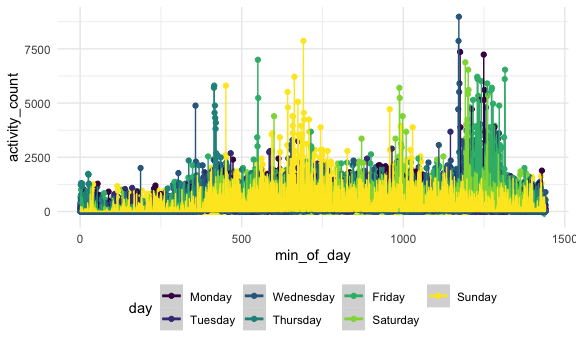
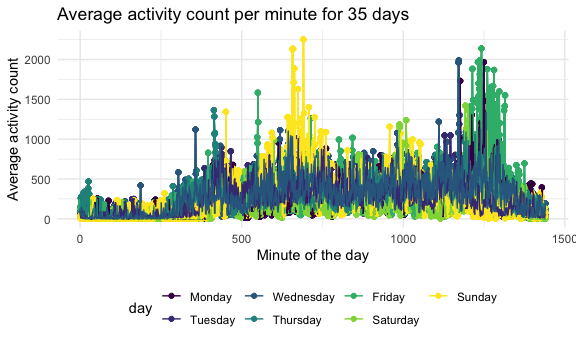
Fixed up graph from number 2 and added descriptions

diff --git a/p8105_hw3_mll2209.md b/p8105_hw3_mll2209.md
@@ -125,7 +125,8 @@ accel_df =
     day_type = as.factor(day_type),
     min_of_day = as.numeric(min_of_day)) %>%
   mutate(
-    day = factor(day, levels = c("Monday", "Tuesday", "Wednesday", "Thursday", "Friday", "Saturday", "Sunday")))
+    day = factor(day, levels = c("Monday", "Tuesday", "Wednesday", "Thursday", "Friday", "Saturday", "Sunday"))) %>%
+  arrange(day)
 ```
 
     ## Parsed with column specification:
@@ -136,11 +137,14 @@ accel_df =
 
     ## See spec(...) for full column specifications.
 
+In this dataset, there are 6 variables, consisting of week, day\_id,
+day, min\_of\_day, activity\_count, day\_type. There are 50400
+observations in this dataset.
+
 Aggregate across minutes to create a total activity for each day. Create
 table that shows this.
 
 ``` r
-table1 = 
 accel_df %>%
   group_by(week,day) %>%
   summarize(activity_count = sum(activity_count)) %>%
@@ -149,19 +153,78 @@ accel_df %>%
 
     ## `summarise()` regrouping output by 'week' (override with `.groups` argument)
 
+| week | day       | activity\_count |
+| ---: | :-------- | --------------: |
+|    1 | Monday    |        78828.07 |
+|    1 | Tuesday   |       307094.24 |
+|    1 | Wednesday |       340115.01 |
+|    1 | Thursday  |       355923.64 |
+|    1 | Friday    |       480542.62 |
+|    1 | Saturday  |       376254.00 |
+|    1 | Sunday    |       631105.00 |
+|    2 | Monday    |       295431.00 |
+|    2 | Tuesday   |       423245.00 |
+|    2 | Wednesday |       440962.00 |
+|    2 | Thursday  |       474048.00 |
+|    2 | Friday    |       568839.00 |
+|    2 | Saturday  |       607175.00 |
+|    2 | Sunday    |       422018.00 |
+|    3 | Monday    |       685910.00 |
+|    3 | Tuesday   |       381507.00 |
+|    3 | Wednesday |       468869.00 |
+|    3 | Thursday  |       371230.00 |
+|    3 | Friday    |       467420.00 |
+|    3 | Saturday  |       382928.00 |
+|    3 | Sunday    |       467052.00 |
+|    4 | Monday    |       409450.00 |
+|    4 | Tuesday   |       319568.00 |
+|    4 | Wednesday |       434460.00 |
+|    4 | Thursday  |       340291.00 |
+|    4 | Friday    |       154049.00 |
+|    4 | Saturday  |         1440.00 |
+|    4 | Sunday    |       260617.00 |
+|    5 | Monday    |       389080.00 |
+|    5 | Tuesday   |       367824.00 |
+|    5 | Wednesday |       445366.00 |
+|    5 | Thursday  |       549658.00 |
+|    5 | Friday    |       620860.00 |
+|    5 | Saturday  |         1440.00 |
+|    5 | Sunday    |       138421.00 |
+
+For the last few weeks in the datset, it appears that there is very low
+activity on Saturdays compared to the rest of the days. Activity also
+seems to increase generally from Mondays through Fridays. The days with
+the highest values tend to be Fridays and Sundays.
+
 Make plot that shows 24-hour activity time courses for each day and use
 color to indicate day of the week.
 
 ``` r
-ggplot(accel_df, aes(x = min_of_day, y = activity_count, color = day)) +
-  stat_smooth()+
-  geom_point() +
-  geom_line()
+accel_df %>%
+  select(day_id, day, min_of_day, activity_count) %>%
+  group_by(day,min_of_day) %>%
+  summarize(day_id = day_id, mean_activity_count = mean(activity_count, na.rm = TRUE)) %>%
+  ggplot(aes(x = min_of_day, y = mean_activity_count, group = day_id, color = day)) +
+    geom_point() +
+    geom_path()+
+    labs(title = "Average activity count per minute for 35 days", x = "Minute of the day", y = "Average activity count") 
 ```
 
-    ## `geom_smooth()` using method = 'gam' and formula 'y ~ s(x, bs = "cs")'
+    ## `summarise()` regrouping output by 'day', 'min_of_day' (override with `.groups` argument)
 
 <img src="p8105_hw3_mll2209_files/figure-gfm/unnamed-chunk-8-1.png" width="90%" />
+For this graph, I took the average of each activity county for each
+minute of each weekday (Monday, Tuesday, etc.), and plotted that against
+minutes of the day, and connected the lines based off of each of the 35
+days in order to make it easier to interpret.
+
+Based off of this graph I can see that Sundays and Fridays have the
+highest activity of the week, with Sundays having higher activity in the
+middle of the day, and Fridays having higher activity in the evening.
+There is low activity in the first third of the day, with activity also
+increasing at the end of the day. Mondays through Thursdays and
+Saturdays all seem to have relatively lower activity compared to Fridays
+and Saturdays.
 
 \#\#\#Problem 3
 
@@ -182,9 +245,21 @@ ny_noaa_df =
       tmin = tmin / 10,
       prcp = prcp * .003937,
       snow = snow * .03937,
-      snwd = snwd * .03937
-    )
+      snwd = snwd * .03937)
 ```
+
+For this dataset, I divided the tmin and tmax by 10, so that temperature
+would be reported as degrees Celsius rather than tenths of a degree
+Celsius. I also multiplied snow and snwd by .03937, because this is the
+conversion factor from mm to inches, and I believe rain and snow are
+usually reported in inches. I multiplied prcp by .003937 because it was
+originally reported as tenths of a mm, and I wanted to report it as
+inches.
+
+For snowfall, the most commonly observed values are NA and 0.00; this is
+because for most days of the year it is not snowing in New York State,
+so the amount of snowfall in inches would be 0, or it wouldn’t be given
+at all (NA).
 
 Make a two-panel plot showing the average max temperature in January and
 in July for each station across the years.
@@ -214,6 +289,17 @@ ggplot(plot1_df, aes(x = year, y = mean_tmax, group = id, color = id)) +
 ```
 
 <img src="p8105_hw3_mll2209_files/figure-gfm/unnamed-chunk-10-1.png" width="90%" />
+In this 2 panel plot, it is evident that the max temperatures in July
+(range \~ 20 to 33 degrees C) are much higher than that of January
+(range \~ -10 to 10 degrees C). There are no particular trends visible
+within the plots for each month besides that there seems to be peaks and
+dips between the years quite frequently. Some outliers that are visible
+January are: one station in 1982 had a very low temperature \~ -14
+degrees C, and one in 2005 had a temperature of \~ -12 degrees C. For
+July, some obvious outliers were one station in 1988 had a lower
+temperature of \~14 degrees C, and the different stations in the years
+1984, 2004, and 2007 all experienced a slightly lower temperature of
+around \~19 degrees C.
 
 Make a two panel plot showing tmax vs tmin for the full dataset.
 
